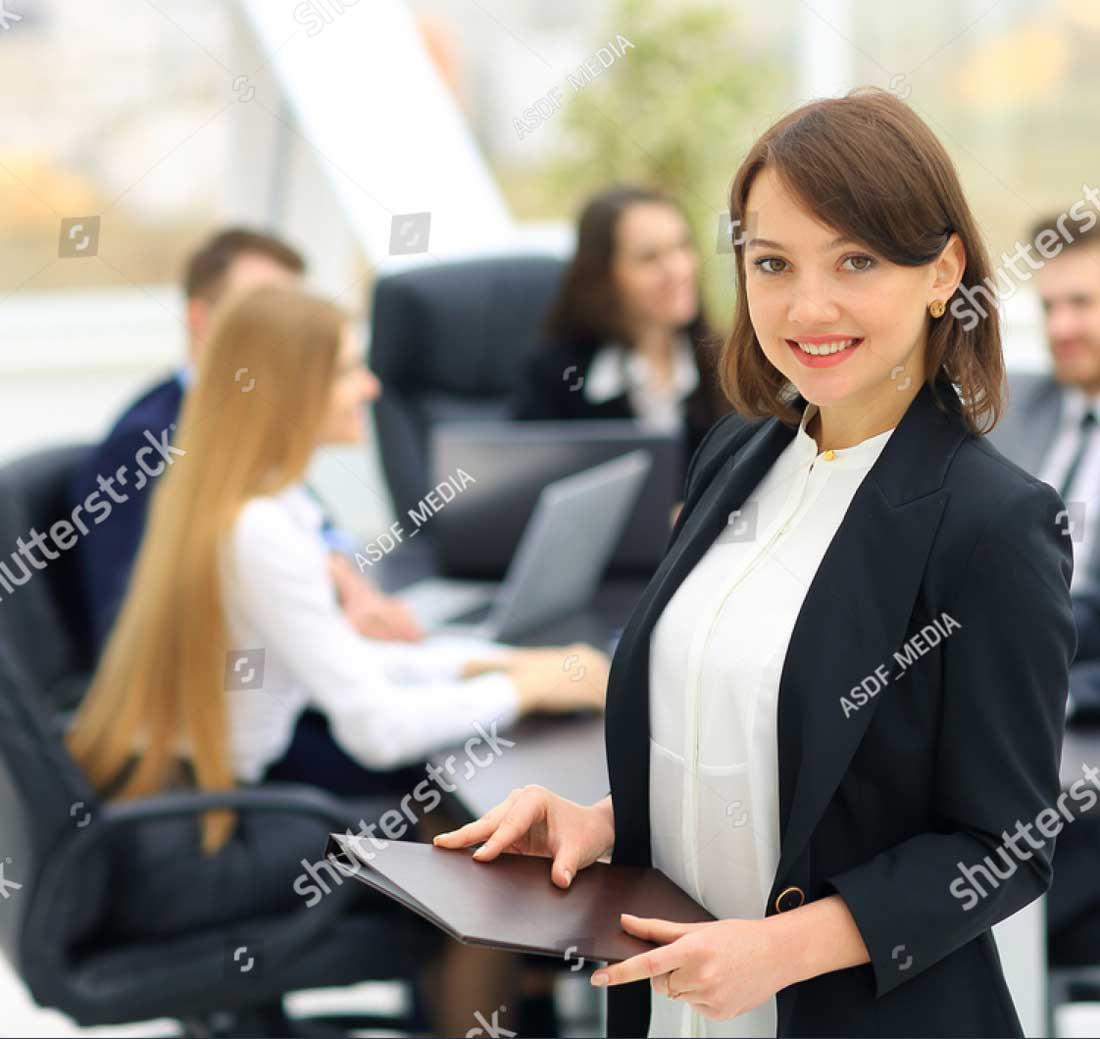
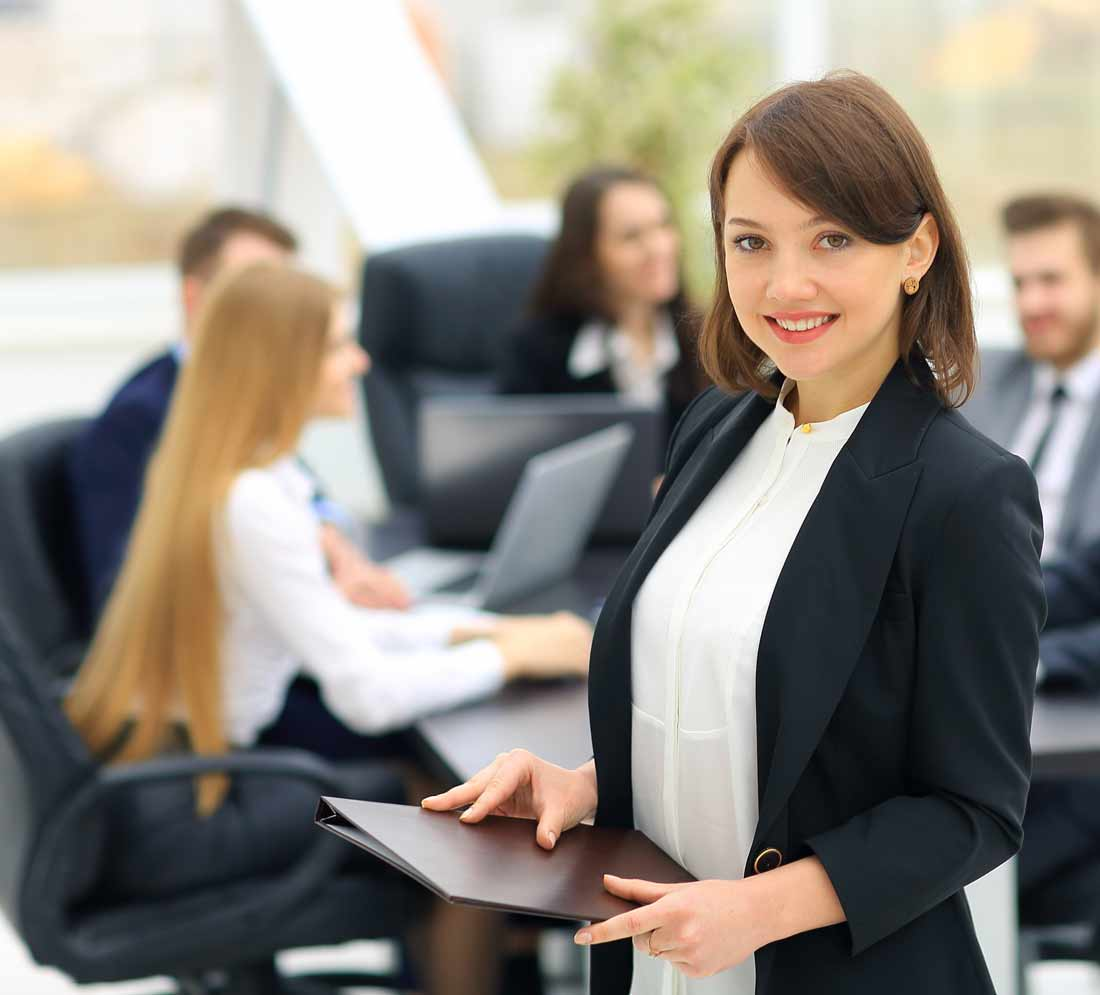
images

diff --git a/css/style.css b/css/style.css
@@ -494,7 +494,7 @@ header {
         margin: 0 auto; } }
 
 body.home .intro {
-  background-image: url(../images/hero.gif);
+  background-image: url(../images/hero.jpg);
   background-size: cover;
   background-position: 53%;
   margin-bottom: 46px; }

diff --git a/scss/_home.scss b/scss/_home.scss
@@ -1,6 +1,6 @@
 body.home{
 	.intro {
-		background-image: url(../images/hero.gif);
+		background-image: url(../images/hero.jpg);
 		background-size: cover;
 		background-position: 53%;
 		margin-bottom: 46px;
